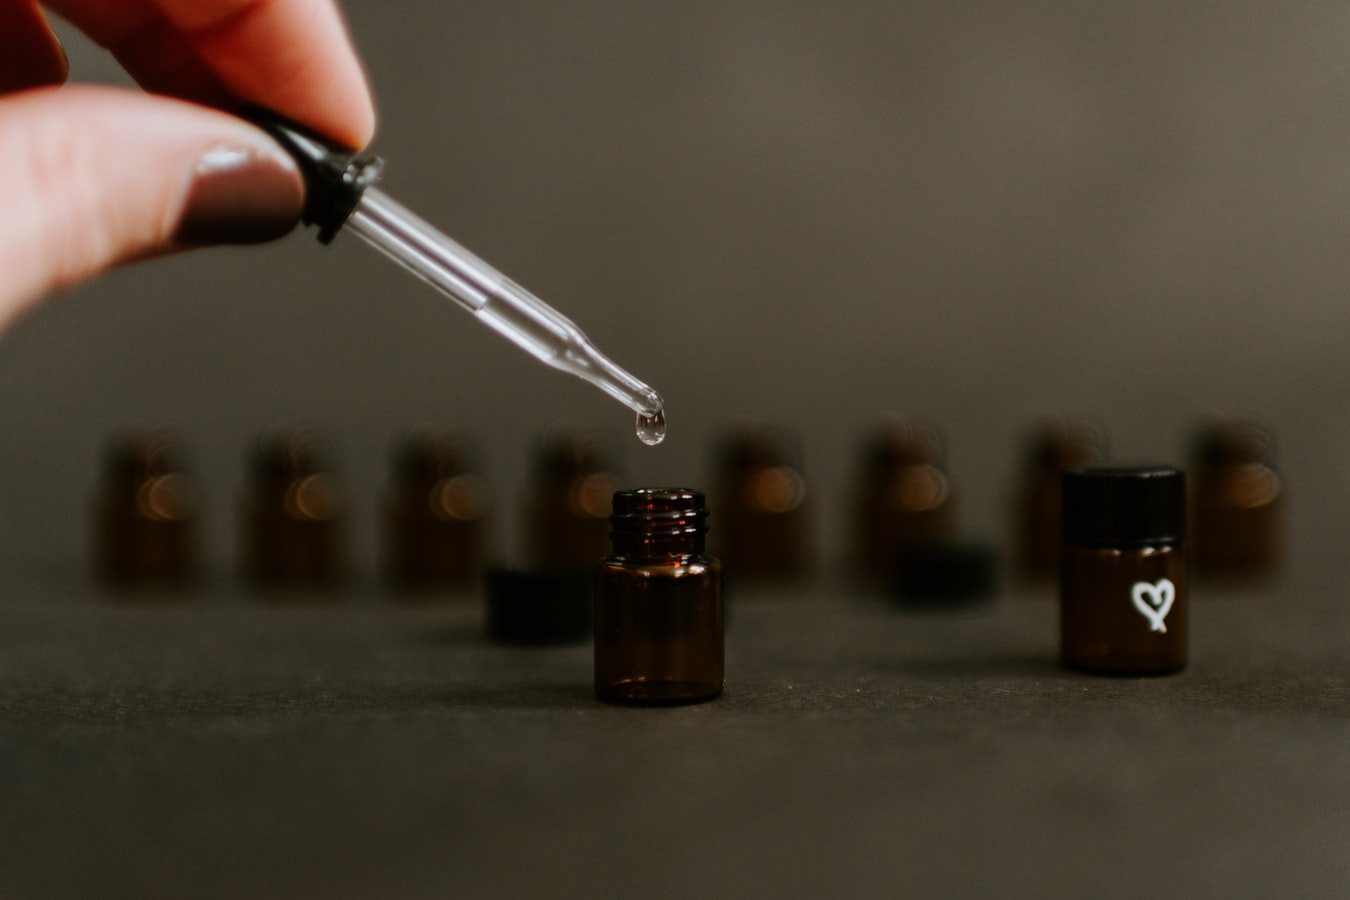
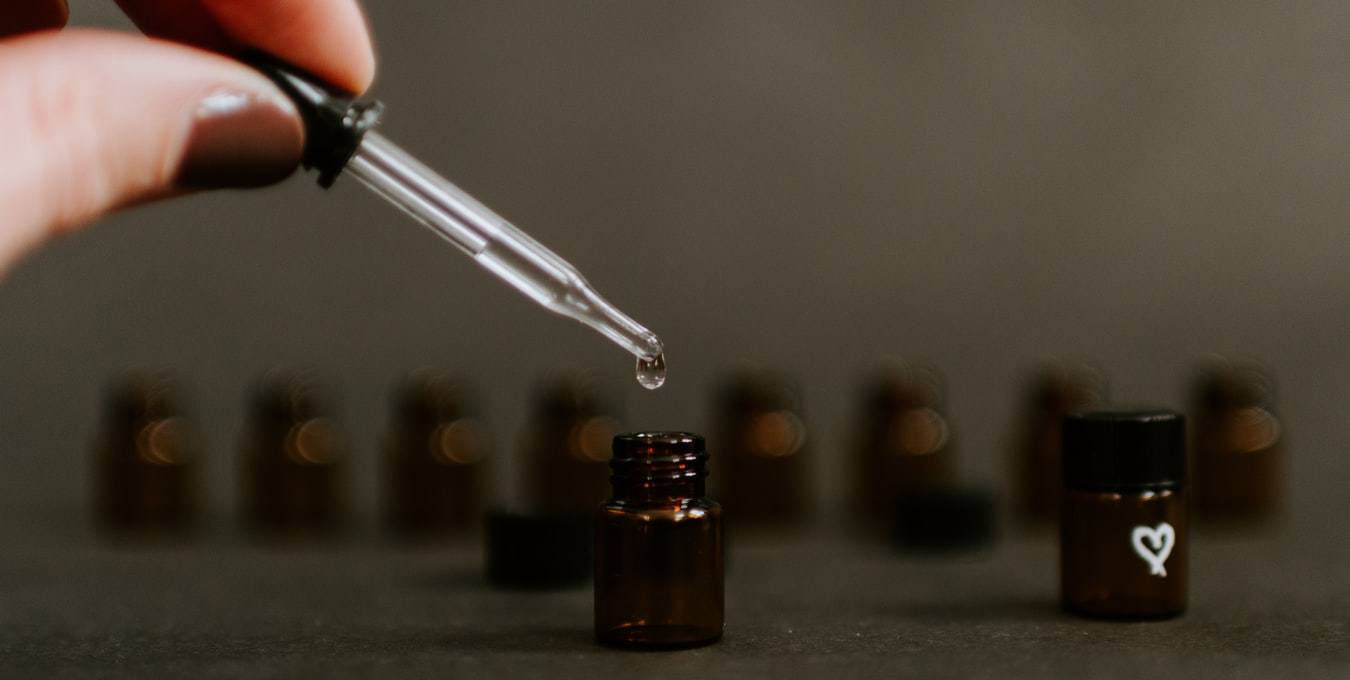
20200607 수정

diff --git a/css/style.css b/css/style.css
@@ -165,32 +165,50 @@ header{position: relative;}
 /* section 시작 */
 section{width:100%; position: relative; top: 80px;}
 
-.sdgimg .sd1{
-  height:810px;
-  background-image:url(../img/back1.jpg) ;
-  background-repeat: no-repeat; background-size: cover;
-  background-position: center;
-  position: relative; }
-.sdgimg .sd2{
-  height:810px;
-  background-image:url(../img/back2.jpg) ;
-  background-repeat: no-repeat; background-size: cover;
-   background-position: center;
-  position: relative; }
-.sdgimg .sd3{
-    height:810px;
-    background-image:url(../img/back3.jpg) ;
-    background-repeat: no-repeat; background-size: cover;
-    background-position: center;
-    position: relative; }
+
+.sdgimg .sd1 img{
+  width: 100%; height: 810px;  position: relative; }
+.sdgimg .sd2 img{
+  width: 100%; height: 810px;  position: relative; }
+.sdgimg .sd3 img{
+  width: 100%; height: 810px;position: relative;}
 .sd3, .sd2 {display: none;}
 .sdgimg .text{
   position: absolute; 
-  top:50%; left: 10%; 
+  top:40%; left: 10%; 
   color: papayawhip;} 
-.text h3{font-size:50px; letter-spacing: 3px; line-height: 1.3; }
-.text p{font-size: 16px; padding-top: 43px;}
+.text h3{
+  font-size:50px; letter-spacing: 3px; 
+  line-height: 1.3;   }
 
+.pbox{height: 25px;margin-top: 43px; padding-left: 8px; font-size: 16px;overflow: hidden; }
+.hbox,.hbox2,.hbox3{height: 60px; overflow: hidden;  }
+.slide .slick-active .hbox h3{animation:fadeInUp2 1s both 0.5s;}
+.slide .slick-active .hbox2 h3{animation:fadeInUp2 1s both 0.8s;}
+.slide .slick-active .hbox3 h3{animation:fadeInUp2 1s both 1.1s;}
+.slide .slick-active .text p{animation:fadeInLeft1 1.2s both 1.7s;}
+@keyframes fadeInUp2 {
+  from {
+    position: relative; top:50px
+  }
+
+  to {
+    position: relative; top:0px
+  }
+}
+@keyframes fadeInLeft1 {
+  from {
+    opacity: 0;
+    -webkit-transform: translate3d(-10%, 0, 0);
+    transform: translate3d(-10%, 0, 0);
+  }
+
+  to {
+    opacity: 1;
+    -webkit-transform: translate3d(0, 0, 0);
+    transform: translate3d(0, 0, 0);
+  }
+}
 
     /*js */
       .slide{position: relative;}
@@ -207,7 +225,7 @@ section{width:100%; position: relative; top: 80px;}
       .plpa{position: absolute; bottom: 18px; background: none; border: none;
         font-size: 15px; color: rgba(255, 255, 255, 0.37); right: 0%;  width: calc(50% - 30px);padding-left: 10px;
         text-align: left;}
-        .slide .slick-active {animation:  zoomm 6s;}
+        .slide .slick-active img{animation:  zoomm 6s;}
         @keyframes zoomm {
           from {
             -webkit-transform: scale3d(1, 1, 1);
@@ -215,12 +233,11 @@ section{width:100%; position: relative; top: 80px;}
           }
         
           100% {
-            -webkit-transform: scale3d(1.05, 1.05, 1.05);
-            transform: scale3d(1.05, 1.05, 1.05);
+            -webkit-transform: scale3d(1.06, 1.06, 1.06);
+            transform: scale3d(1.06, 1.06, 1.06);
           }
         }
-
-        .slide .slick-active .text{animation:  zoommOut 6s;} 
+        
 
 
 .slide_product h3{  font-size: 27px; text-align: center; font-weight: bold;  padding: 50px 0 ; border-bottom: 1px solid rgb(211, 211, 211) ; position: relative; }
@@ -308,16 +325,16 @@ position: relative; top:90px; z-index: 9;}
   background-image: url(../img/tab_p2.png); 
   background-size: cover; position: relative;}
 .p_txt{position: absolute; top:45%; left:65%; }
-.p_txt .sun{font-size: 38px; padding-left: 50px;padding-bottom: 10px;}
+/* .p_txt .sun{font-size: 38px; padding-left: 50px;padding-bottom: 10px;}
 .p_txt .di {font-size: 38px; padding-left: 30px;padding-bottom: 30px;
   -webkit-transform: translate3d(-100%, 0, 0);
   transform: translate3d(-100%, 0, 0);}
 .p_txt p:last-child{font-size: 55px;
   -webkit-transform: translate3d(-100%, 0, 0);
-  transform: translate3d(-100%, 0, 0);}
-.tab_slide .slick-active .sun{animation: fadeInUp 1s  both;}
+  transform: translate3d(-100%, 0, 0);} */
+/* .tab_slide .slick-active .sun{animation: fadeInUp 1s  both;}
 .tab_slide .slick-active .di{animation: fadeInUp 1s  both 0.5s; }
-.tab_slide .slick-active .p_txt p:last-child{animation: fadeInUp 1s  both 1s;}
+.tab_slide .slick-active .p_txt p:last-child{animation: fadeInUp 1s  both 1s;} */
 
 
 .tab_product2{

diff --git a/index.html b/index.html
@@ -220,30 +220,54 @@
         <div class="slide">
             <div class="sdgimg">
                     <div class="sd1">
+                        <img src="img/back1.jpg" alt="">
                         <div class="text">
-                            <h3>아름다운 삶에</h3> 
-                            <h3>기여하는</h3> 
-                            <h3>글로벌 뷰티시장의 리더</h3>
-                            <p>한국을 넘어 더 넒은 글로벌 무대를 향해 도약합니다.</p>
-                            <span class="sdlign"></span>
+                            <div class="hbox">
+                                <h3>아름다운 삶에</h3> 
+                            </div>
+                            <div class="hbox2">
+                                <h3>기여하는</h3> 
+                            </div>
+                            <div class="hbox3">
+                                <h3>글로벌 뷰티시장의 리더</h3>
+                            </div>
+                            <div class="pbox">                          
+                                <p>한국을 넘어 더 넒은 글로벌 무대를 향해 도약합니다.</p>
+                            </div>
                         </div>
                     </div>
                     <div class="sd2" >
+                        <img src="img/back3.jpg" alt="">
                         <div class="text">
-                            <h3>기본에 혁신을 더한</h3>  
-                            <h3>융복합코스메틱</h3> 
-                            <h3>연구개발의 메카</h3>
-                            <p>아낌없는 투자와 지속적인 연구개발로 화장품 과학기술 고도화에 앞장섭니다.</p>
-                            <span class="sdlign"></span>
+                            <div class="hbox">
+                                <h3>기본에 혁신을 더한</h3> 
+                            </div>
+                            <div class="hbox2">
+                                <h3>융복합코스메틱</h3> 
+                            </div>
+                            <div class="hbox3">
+                                <h3>연구개발의 메카</h3>
+                            </div>
+                            <div class="pbox">                       
+                                <p>아낌없는 투자와 지속적인 연구개발로 화장품 과학기술 고도화에 앞장섭니다.</p>
+                            </div>   
                         </div>
                     </div>
                     <div class="sd3">
+                        <img src="img/back2.jpg" alt="">
                         <div class="text">
-                            <h3>화장품 트렌드를</h3> 
-                            <h3>선도하는</h3> 
-                            <h3>창조적 영감</h3>
-                            <p>모두가 바라던 상상 속 화장품의 구현, 더조은코리아라면 가능합니다.</p>
-                            <span class="sdlign"></span>
+                            <div class="hbox">
+                                <h3>화장품 트렌드를</h3> 
+                            </div>
+                            <div class="hbox2">
+                                <h3>선도하는</h3> 
+                            </div>
+                            <div class="hbox3">
+                                <h3>창조적 영감</h3>
+                            </div>
+                            <div class="pbox">                   
+                                <p>모두가 바라던 상상 속 화장품의 구현, 더조은코리아라면 가능합니다.</p>
+                            </div>
                         </div>
                     </div>
             </div>
